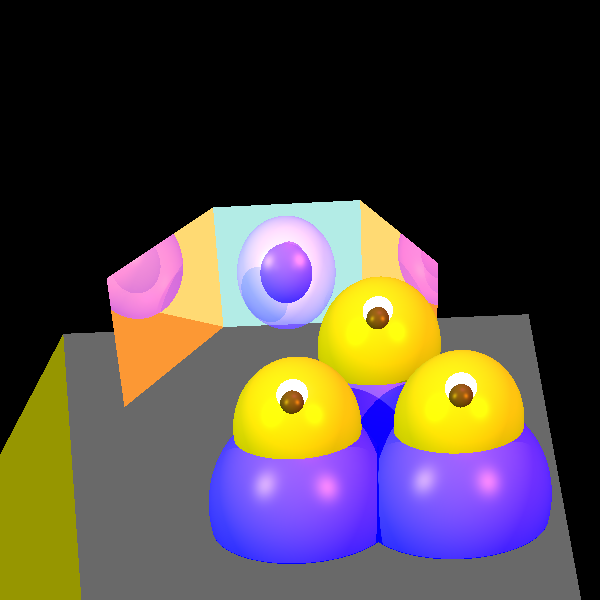
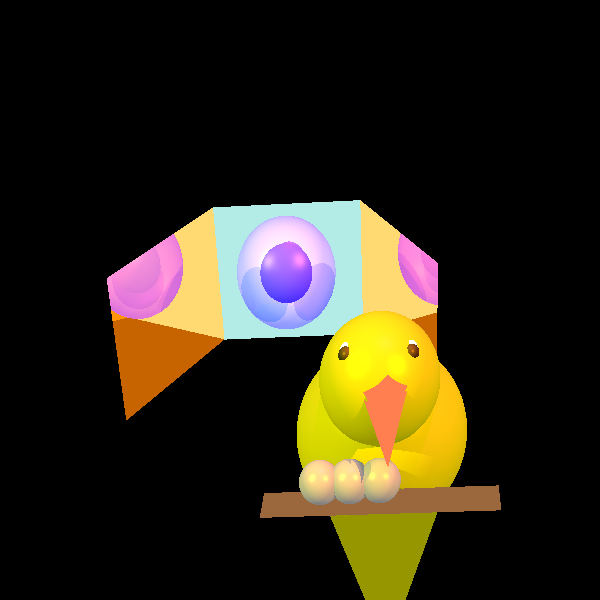
creating bird

diff --git a/unittests/renderer/CameraTest.java b/unittests/renderer/CameraTest.java
@@ -1,9 +1,6 @@
 package renderer;
 
-import geometries.Geometries;
-import geometries.Quadrangle;
-import geometries.Sphere;
-import geometries.Triangle;
+import geometries.*;
 import lighting.*;
 import org.junit.jupiter.api.Test;
 import primitives.*;
@@ -144,11 +141,16 @@ class CameraTest {
      */
     @Test
     public void ourImageWithDepth() {
+        //front camera
         Camera camera = new Camera(new Point(65, 5, 20), new Vector(-7, -0.5, -2), new Vector(-1, 0, 1))
-               .setVPSize(300, 300).setVPDistance(800).setAdaptiveSuperSampling(false);
+              .setVPSize(300, 300).setVPDistance(800).setAdaptiveSuperSampling(false);
+        //side camera
+       /* Camera camera = new Camera(new Point(3,100,1), new Vector(0,-1,0), new Vector(0, 0, 1))
+                .setVPSize(300, 300).setVPDistance(800).setAdaptiveSuperSampling(false);*/
 
-       //Camera camera = new Camera(new Point(0,0,100), new Vector(0.2,0,-1), new Vector(-1, 0, 1))
-            //    .setVPSize(300, 300).setVPDistance(800).setAdaptiveSuperSampling(false);
+     //up to bottom camera
+     /*  Camera camera = new Camera(new Point(0,0,100), new Vector(0.2,0,-1), new Vector(-1, 0, 1))
+               .setVPSize(300, 300).setVPDistance(800).setAdaptiveSuperSampling(false);*/
        // camera.setDepthButton(true, 2, 50);
 
         Point p0 = new Point(0, -3, 5);
@@ -189,78 +191,60 @@ class CameraTest {
                         .setMaterial(new Material().setKd(0.2).setKs(0.1).setShininess(30)),
 
 
-
-              //BODY OF GREEN
-                new Sphere(new Point(16, 4, 1.7), 3)
-                        .setEmission(Color.BLUE)
-                         .setMaterial(new Material().setKd(0.5).setKs(0.5).setShininess(30)),
-                //BODY OF BLUE
-                new Sphere(new Point(20, 6.5, 1.1), 3)
-                        .setEmission(Color.BLUE)
-                        .setMaterial(new Material().setKd(0.5).setKs(0.5).setShininess(30)),
-                //BODY OF RED
-                new Sphere(new Point(20, 1.5, 1.1), 3)
-                        .setEmission(Color.BLUE)
+                //wings
+                //left
+                new Triangle(new Point(14, 4, 4),new Point(14, 1, 1),new Point(9, 4, -10)).setEmission(Color.YELLOW),
+                //right
+                new Triangle(new Point(14, 4, 4),new Point(14, 7, 1),new Point(9, 4, -10)).setEmission(Color.YELLOW),
+                //BODY OF GREEN
+                new Sphere(new Point(14, 4, 1), 3)
+                        .setEmission(Color.YELLOW)
                         .setMaterial(new Material().setKd(0.5).setKs(0.5).setShininess(30)),
 
                 //HEAD OF GREEN
-                new Sphere(new Point(16, 4, 4.5), 2)
+                new Sphere(new Point(16, 4, 3.5), 2)
                         .setEmission(Color.YELLOW)
                         .setMaterial(new Material().setKd(0.5).setKs(0.5).setShininess(30)),//.setMaterial(new Material().setKd(0.5).setKs(0.5).setShininess(30).setKt(new Double3(0.7))),
-                //HEAD OF BLUE
-                new Sphere(new Point(20,6.5, 3.5), 2)
-                        .setEmission(Color.YELLOW)
-                        .setMaterial(new Material().setKd(0.5).setKs(0.5).setShininess(30)),
 
-                //HEAD OF RED
-                new Sphere(new Point(20,1.5, 3.5), 2)
-                        .setEmission(Color.YELLOW)
+                //PUPIL OF GREEN
+                new Sphere(new Point(17, 5, 4.6), 0.3)
+                        .setEmission(Color.BLACK)
                         .setMaterial(new Material().setKd(0.5).setKs(0.5).setShininess(30)),
                 //PUPIL OF GREEN
-                new Sphere(new Point(17.2, 4, 5.6), 0.5)
+                new Sphere(new Point(17, 3, 4.6), 0.3)
                         .setEmission(Color.BLACK)
                         .setMaterial(new Material().setKd(0.5).setKs(0.5).setShininess(30)),
-                //PUPIL OF BLUE
-                new Sphere(new Point(21.2,6.5, 4.6), 0.5)
-                        .setEmission(Color.BLACK)
-                        .setMaterial(new Material().setKd(0.5).setKs(0.5).setShininess(30)),
-
-                //PUPIL OF RED
-                new Sphere(new Point(21.2,1.5, 4.6), 0.5)
-                        .setEmission(Color.BLACK)
-                        .setMaterial(new Material().setKd(0.5).setKs(0.5).setShininess(30)),
-                //WHITE PART OF EYE
-                //WHITE EYE OF GREEN
-                new Sphere(new Point(16.7, 4, 5.3), 1)
+                //white around eyes
+                //PUPIL OF GREEN
+                new Sphere(new Point(16.8, 4.9, 4.6), 0.4)
                         .setEmission(Color.WHITE)
                         .setMaterial(new Material().setKd(0.5).setKs(0.5).setShininess(30)),
-                //WHITE EYE OF BLUE
-                new Sphere(new Point(20.7,6.5, 4.3), 1)
+                //PUPIL OF GREEN
+                new Sphere(new Point(16.8, 3.1, 4.6), 0.4)
                         .setEmission(Color.WHITE)
                         .setMaterial(new Material().setKd(0.5).setKs(0.5).setShininess(30)),
-
-                //WHITE EYE OF RED
-                new Sphere(new Point(20.7,1.5, 4.3), 1)
-                        .setEmission(Color.WHITE)
+                //eggs
+                new Sphere(new Point(18, 2,1), 0.7)
+                        .setEmission(new Color(java.awt.Color.gray))
                         .setMaterial(new Material().setKd(0.5).setKs(0.5).setShininess(30)),
-                //goggle part of minion
-                //goggle green
-//                // new Sphere(new Point(17, 4, 5.3), 1)
-//                        .setEmission(Color.DARK_GRAY)
-//                        .setMaterial(new Material().setKd(0.5).setKs(0.5).setShininess(30)),
-//                //goggle BLUE
-//                new Sphere(new Point(21,6.5, 4.3), 1)
-//                        .setEmission(Color.DARK_GRAY)
-//                        .setMaterial(new Material().setKd(0.5).setKs(0.5).setShininess(30)),
-//
-//                //goggle RED
-//                new Sphere(new Point(21,1.5, 4.3), 1)
-//                        .setEmission(Color.DARK_GRAY)
-//                        .setMaterial(new Material().setKd(0.5).setKs(0.5).setShininess(30)),
+                new Sphere(new Point(18, 3, 1), 0.7)
+                        .setEmission(new Color(java.awt.Color.gray))
+                        .setMaterial(new Material().setKd(0.5).setKs(0.5).setShininess(30)),
+                new Sphere(new Point(18, 4, 1), 0.7)
+                        .setEmission(new Color(java.awt.Color.gray))
+                        .setMaterial(new Material().setKd(0.5).setKs(0.5).setShininess(30)),
+                //mouth beek
+                new Triangle(new Point(19.5, 4.3, 2),new Point(17.5, 5, 4),new Point(17.5, 3.3, 4)).setEmission(Color.ORANGE),
+
+                new Triangle(new Point(19.5, 4.3, 3),new Point(17.5,4.3, 4.5),new Point(17.5, 3.3, 4)).setEmission(Color.ORANGE),
+                new Triangle(new Point(19.5, 4.3, 3),new Point(17.5, 5, 4),new Point(17.5,4.3, 4.5)).setEmission(Color.ORANGE),
+                //BRANCH
+                new Quadrangle(new Point(17, 0, 0.3),new Point(17, 8, 0.3),new Point(19, 8, 0.3),new Point(19, 0, 0.3)).setColor(Color.BROWN)
 
 
-                new Triangle(p16,p17,p19).setEmission(Color.DARK_GRAY),
-                new Triangle(p19,p18,p16).setEmission(Color.YELLOW)
+
+                //new Triangle(p16,p17,p19).setEmission(Color.DARK_GRAY),
+                //new Triangle(p19,p18,p16).setEmission(Color.YELLOW)
         );
 
         LinkedList<LightSource> lights = new LinkedList<>();
@@ -288,7 +272,7 @@ class CameraTest {
 
         ImageWriter imageWriter = new ImageWriter("our test depth", 600, 600);
         camera.setImageWriter(imageWriter)
-                .setRayTracer(new RayTracerBasic(scene2).setSoftShadowsButton(true,20))
+                .setRayTracer(new RayTracerBasic(scene2).setSoftShadowsButton(false,20))
                 .renderImage()
                 .writeToImage();
     }
